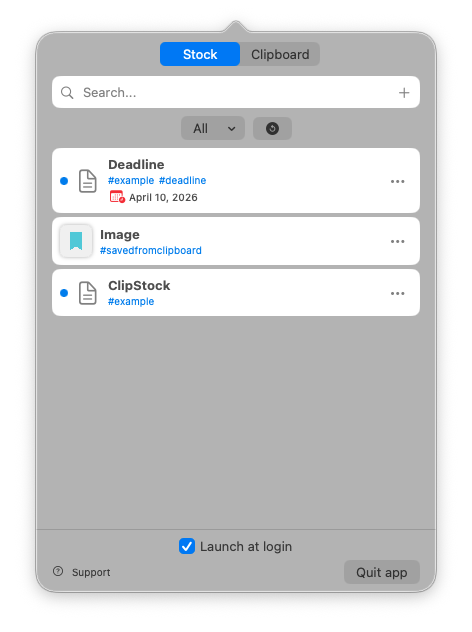
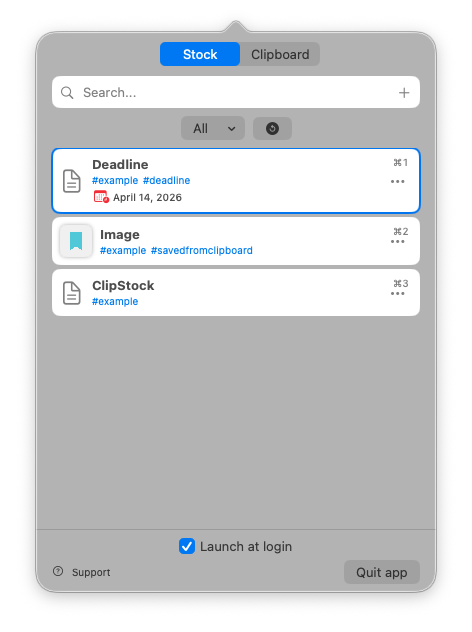
Remove read/unread tracking, add drag-to-reorder, allow Stock copies in clipboard history
- Remove read/unread badges, menu items, Cmd+R shortcut, and badge counter
- Add drag-to-reorder for Stock items with sortIndex Core Data attribute
- Remove ignoreSelfCopy from Stock copy paths so copies appear in clipboard history
- Fix ignoreSelfCopy to skip 2 change counts (clearContents + setString)
- Add Cmd+C as additional copy shortcut
- Add ←/→ arrow keys for tab switching
- Rename Quick Paste → Quick Copy, Option+Cmd+V → Option+Cmd+C
- Add Cmd+1–9 quick copy badges to Stock tab
- Update README and screenshots

diff --git a/ClipStock/Views/ContentView.swift b/ClipStock/Views/ContentView.swift
@@ -123,12 +123,51 @@ class DialogDatePicker: NSDatePicker {
     }
 }
 
+// MARK: - Drag-and-Drop Reorder
+
+struct StockDropDelegate: DropDelegate {
+    let targetItem: StockItem
+    let items: [StockItem]
+    @Binding var draggedItemID: String?
+
+    func performDrop(info: DropInfo) -> Bool {
+        draggedItemID = nil
+        return true
+    }
+
+    func dropEntered(info: DropInfo) {
+        guard let draggedID = draggedItemID,
+              draggedID != targetItem.itemID,
+              let fromIndex = items.firstIndex(where: { $0.itemID == draggedID }),
+              let toIndex = items.firstIndex(where: { $0.itemID == targetItem.itemID })
+        else { return }
+
+        withAnimation(.default) {
+            // Reassign sortIndex for all items based on new order
+            var reordered = items
+            let moved = reordered.remove(at: fromIndex)
+            reordered.insert(moved, at: toIndex)
+            for (i, item) in reordered.enumerated() {
+                item.sortIndex = Int32(i)
+            }
+            try? StorageHelper.shared.storageContext.save()
+        }
+    }
+
+    func dropUpdated(info: DropInfo) -> DropProposal? {
+        DropProposal(operation: .move)
+    }
+}
+
 // MARK: - Stock Tab (extracted from original ContentView)
 
 struct StockView: View {
 
     @FetchRequest(
-        sortDescriptors: [NSSortDescriptor(keyPath: \StockItem.addedDate, ascending: false)],
+        sortDescriptors: [
+            NSSortDescriptor(keyPath: \StockItem.sortIndex, ascending: true),
+            NSSortDescriptor(keyPath: \StockItem.addedDate, ascending: false)
+        ],
         animation: .default)
     private var items: FetchedResults<StockItem>
 
@@ -138,6 +177,7 @@ struct StockView: View {
     @State private var selectedIDs: Set<String> = []
     @State private var cursorID: String?
     @State private var anchorID: String?
+    @State private var draggedItemID: String?
     @FocusState private var stockSearchFocused: Bool
 
     var body: some View {
@@ -223,6 +263,15 @@ struct StockView: View {
                                         }
                                     }
                                     .id(item.itemID)
+                                    .onDrag {
+                                        draggedItemID = item.itemID
+                                        return NSItemProvider(object: (item.itemID ?? "") as NSString)
+                                    }
+                                    .onDrop(of: [.text], delegate: StockDropDelegate(
+                                        targetItem: item,
+                                        items: filteredItems,
+                                        draggedItemID: $draggedItemID
+                                    ))
                                     .onTapGesture {
                                         handleItemClick(item, in: filteredItems)
                                     }
@@ -259,15 +308,12 @@ struct StockView: View {
             moveCursor(1, in: items, extend: true)
         case .copySelected:
             if let id = cursorID, let item = items.first(where: { $0.itemID == id }) {
-                ClipboardMonitor.shared.ignoreSelfCopy()
                 NSPasteboard.general.clearContents()
                 if let url = item.itemURL {
                     NSPasteboard.general.setString(url.absoluteString, forType: .string)
                 } else {
                     NSPasteboard.general.setString(item.itemName ?? "", forType: .string)
                 }
-                item.itemUnread = false
-                try? StorageHelper.shared.storageContext.save()
                 ToastState.shared.show(NSLocalizedString("Copied!", comment: ""))
             }
         case .deleteSelected:
@@ -290,10 +336,6 @@ struct StockView: View {
             stockSearchFocused = true
         case .addItem:
             actionManuallyAddItem()
-        case .markAsRead:
-            let toToggle = items.filter { selectedIDs.contains($0.itemID ?? "") }
-            for item in toToggle { item.itemUnread.toggle() }
-            try? StorageHelper.shared.storageContext.save()
         case .editItem:
             if let id = cursorID, let item = items.first(where: { $0.itemID == id }) {
                 actionEditItem(item)
@@ -311,15 +353,12 @@ struct StockView: View {
         case .copyIndex(let n):
             guard n >= 0 && n < items.count else { return }
             let item = items[n]
-            ClipboardMonitor.shared.ignoreSelfCopy()
             NSPasteboard.general.clearContents()
             if let url = item.itemURL {
                 NSPasteboard.general.setString(url.absoluteString, forType: .string)
             } else {
                 NSPasteboard.general.setString(item.itemName ?? "", forType: .string)
             }
-            item.itemUnread = false
-            try? StorageHelper.shared.storageContext.save()
             ToastState.shared.show(NSLocalizedString("Copied!", comment: ""))
         case .copyPlainText, .togglePin:
             break

diff --git a/ClipStock/App/AppDelegate.swift b/ClipStock/App/AppDelegate.swift
@@ -41,8 +41,6 @@ class AppDelegate: NSObject, NSApplicationDelegate, NSPopoverDelegate {
         statusBarItem = NSStatusBar.system.statusItem(withLength: NSStatusItem.variableLength)
         guard let button = statusBarItem.button else { return }
         button.image = NSImage(systemSymbolName: "tray.full.fill", accessibilityDescription: "ClipStock")
-        button.imagePosition = .imageLeft
-        button.title = "\(persistence.getUnreadItemCounting())"
         button.action = #selector(statusBarButtonClicked(_:))
         button.target = self
         button.sendAction(on: [.leftMouseUp, .rightMouseUp])
@@ -62,7 +60,6 @@ class AppDelegate: NSObject, NSApplicationDelegate, NSPopoverDelegate {
     }
 
     func popoverWillClose(_ notification: Notification) {
-        statusBarItem.button?.title = "\(persistence.getUnreadItemCounting())"
     }
 
     // MARK: - Popover Toggle
@@ -128,7 +125,6 @@ class AppDelegate: NSObject, NSApplicationDelegate, NSPopoverDelegate {
                 self?.closePopover(nil)
             }
         }
-        button.title = "\(persistence.getUnreadItemCounting())"
     }
 
     private func closePopover(_ sender: AnyObject?) {
@@ -212,14 +208,16 @@ class AppDelegate: NSObject, NSApplicationDelegate, NSPopoverDelegate {
             case kVK_ANSI_F:
                 state.keyAction.send(.focusSearch)
                 return true
+            case kVK_ANSI_C:
+                if !textFieldActive {
+                    state.keyAction.send(.copySelected)
+                    return true
+                }
             case kVK_ANSI_N:
                 if state.selectedTab == .stock {
                     state.keyAction.send(.addItem)
                     return true
                 }
-            case kVK_ANSI_R:
-                state.keyAction.send(.markAsRead)
-                return true
             case kVK_ANSI_E:
                 state.keyAction.send(.editItem)
                 return true
@@ -313,9 +311,6 @@ extension AppDelegate: NSWindowDelegate, NSDraggingDestination {
 
         MetaDataHelper.fetchItemMetaData(droppedItem: firstObject) { iconData, itemTitle, itemURL in
             self.persistence.saveToCoreData(itemURL: itemURL, itemTitle: itemTitle, itemIconData: iconData)
-            DispatchQueue.main.async {
-                self.statusBarItem.button?.title = "\(self.persistence.getUnreadItemCounting())"
-            }
 
             // Remind first-time user that only file references are saved
             if !UserDefaults.standard.bool(forKey: "file-path-reminder-shown") {

diff --git a/ClipStock/Views/ItemViewCard.swift b/ClipStock/Views/ItemViewCard.swift
@@ -13,13 +13,6 @@ struct ItemViewCard: View {
     var body: some View {
         HStack(spacing: 8) {
 
-            // Unread badge
-            if itemObject.itemUnread {
-                Circle()
-                    .fill(.blue)
-                    .frame(width: 8, height: 8)
-            }
-
             // Icon
             if let data = itemObject.itemIconData, let img = NSImage(data: data) {
                 Image(nsImage: img)
@@ -82,12 +75,6 @@ struct ItemViewCard: View {
                     }
                 }
 
-                Button(itemObject.itemUnread
-                       ? NSLocalizedString("Mark as read", comment: "")
-                       : NSLocalizedString("Mark as unread", comment: "")) {
-                    actionMarkAsRead()
-                }
-
                 Button(NSLocalizedString("Edit", comment: "")) {
                     actionPresentEditDialog()
                 }
@@ -121,24 +108,12 @@ struct ItemViewCard: View {
         .background(RoundedRectangle(cornerRadius: 8).fill(Color(NSColor.controlBackgroundColor)))
         .contentShape(Rectangle())
         .onTapGesture { actionOpen() }
-        .onDrag {
-            if let url = itemObject.itemURL {
-                return url.isFileURL
-                    ? NSItemProvider(object: url.path as NSString)
-                    : NSItemProvider(object: url as NSURL)
-            }
-            return NSItemProvider(object: (itemObject.itemName ?? "") as NSString)
-        }
     }
 
     // MARK: - Actions
 
     private func actionOpen() {
-        itemObject.itemUnread = false
-        try? StorageHelper.shared.storageContext.save()
-
         // Copy content to clipboard
-        ClipboardMonitor.shared.ignoreSelfCopy()
         NSPasteboard.general.clearContents()
         if let url = itemObject.itemURL {
             NSPasteboard.general.setString(url.absoluteString, forType: .string)
@@ -177,10 +152,7 @@ struct ItemViewCard: View {
         }
     }
 
-    private func actionMarkAsRead() {
-        itemObject.itemUnread.toggle()
-        try? StorageHelper.shared.storageContext.save()
-    }
+
 
     private func actionPresentEditDialog() {
         let dialog = NSAlert()

diff --git a/ClipStock/Data/StorageHelper.swift b/ClipStock/Data/StorageHelper.swift
@@ -28,7 +28,6 @@ class StorageHelper {
         newItem.itemURL = itemURL
         newItem.itemName = itemTitle
         newItem.itemIconData = itemIconData
-        newItem.itemUnread = true
         newItem.itemTag = tag
         do {
             try storageContext.save()
@@ -37,22 +36,11 @@ class StorageHelper {
         }
     }
 
-    func getUnreadItemCounting() -> Int {
-        let request = NSFetchRequest<StockItem>(entityName: "StockItem")
-        request.predicate = NSPredicate(format: "itemUnread == YES")
-        do {
-            return try storageContext.count(for: request)
-        } catch {
-            return 0
-        }
-    }
-
     /// Promote a clipboard item to a permanent stock item.
     func promoteClipToStock(_ clip: ClipboardItem) {
         let newItem = StockItem(context: storageContext)
         newItem.itemID = UUID().uuidString
         newItem.addedDate = Date()
-        newItem.itemUnread = true
 
         switch clip.clipType {
         case "link":

diff --git a/ClipStock/Data/ClipboardMonitor.swift b/ClipStock/Data/ClipboardMonitor.swift
@@ -6,7 +6,7 @@ class ClipboardMonitor {
 
     private var timer: Timer?
     private var lastChangeCount: Int
-    private var skipNextChange = false
+    private var skipNextChange = 0
 
     private init() {
         lastChangeCount = NSPasteboard.general.changeCount
@@ -14,7 +14,7 @@ class ClipboardMonitor {
 
     /// Call this before writing to the pasteboard from within the app.
     func ignoreSelfCopy() {
-        skipNextChange = true
+        skipNextChange = 2  // clearContents + setString both increment changeCount
     }
 
     func start() {
@@ -35,8 +35,8 @@ class ClipboardMonitor {
         lastChangeCount = pasteboard.changeCount
 
         // Skip if the app itself wrote to the clipboard
-        if skipNextChange {
-            skipNextChange = false
+        if skipNextChange > 0 {
+            skipNextChange -= 1
             return
         }
 

diff --git a/ClipStock/Views/ClipboardView.swift b/ClipStock/Views/ClipboardView.swift
@@ -199,7 +199,7 @@ struct ClipboardView: View {
                     ? NSLocalizedString("Pinned", comment: "")
                     : NSLocalizedString("Unpinned", comment: ""))
             }
-        case .addItem, .markAsRead, .editItem, .addDeadline, .removeDeadline:
+        case .addItem, .editItem, .addDeadline, .removeDeadline:
             break
         }
     }

diff --git a/ClipStock/App/AppState.swift b/ClipStock/App/AppState.swift
@@ -10,7 +10,6 @@ enum KeyAction {
     case navigateDown
     case navigateUpExtend
     case navigateDownExtend
-    case markAsRead
     case editItem
     case addDeadline
     case removeDeadline

diff --git a/README.md b/README.md
@@ -10,7 +10,7 @@ A macOS menu bar app for saving URLs, files, text, and clipboard history — all
 - **Search** saved items by name or tag
 - **Tags** for organizing items
 - **Due dates** with overdue indicators
-- **Read/unread tracking** with badge counter on the menu bar icon
+- **Drag to reorder** — rearrange items by dragging
 - **iCloud link sharing** for files in iCloud Drive
 - **Tap to copy** any item to clipboard
 
@@ -24,7 +24,7 @@ A macOS menu bar app for saving URLs, files, text, and clipboard history — all
 - **Quick copy** — `⌘1`–`⌘9` copies the Nth visible clip (Maccy-style)
 - **Plain text copy** — `⌥⌘C` strips formatting from the selected clip
 - **Configurable history limit** — default 500, adjustable in Preferences
-- **Self-aware** — doesn't capture copies made from within the app
+- **Self-aware** — doesn't re-capture copies made from within the Clipboard tab
 
 ### General
 - **Preferences window** — rebind global shortcuts, configure behavior; open via right-click on the menu bar icon
@@ -57,7 +57,7 @@ Both shortcuts are remappable in **Preferences** (right-click the menu bar icon 
 | `↑` / `↓` | Navigate items |
 | `Shift+↑` / `Shift+↓` | Extend selection |
 | `Tab` / `←` / `→` | Switch between Stock/Clipboard |
-| `Enter` | Copy selected item |
+| `Enter` / `Cmd+C` | Copy selected item |
 | `Esc` | Close popover |
 | `Cmd+F` | Focus search field |
 | `Cmd+1` … `Cmd+9` | Copy the Nth visible item and close the popover |
@@ -67,7 +67,6 @@ Both shortcuts are remappable in **Preferences** (right-click the menu bar icon 
 | Shortcut | Action |
 |---|---|
 | `Cmd+N` | Add new item |
-| `Cmd+R` | Toggle read/unread |
 | `Cmd+E` | Edit item |
 | `Cmd+D` | Add/edit deadline |
 | `Cmd+Shift+D` | Remove deadline |
@@ -143,8 +142,11 @@ This project is inspired by and based on [ItemStock](https://github.com/mszpro/I
 - In-app toast notifications
 - Sheet-based dialogs
 - Preferences window with remappable global shortcuts (`KeyboardShortcuts`)
+- Full keyboard shortcut system with multi-selection
+- Drag-to-reorder stock items
 - Pinned clips, `⌘1`–`⌘9` quick copy, `⌥⌘C` plain text copy
 - Optional paste-on-select using `CGEvent` (Accessibility permission required)
+- Removed read/unread tracking (unnecessary for clipboard manager use case)
 
 ## License
 
